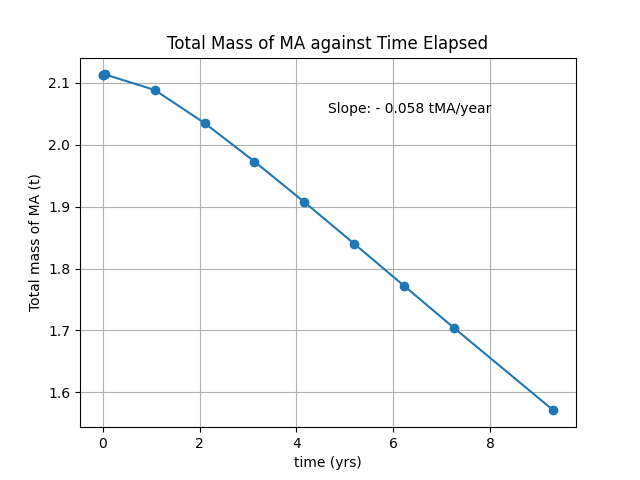
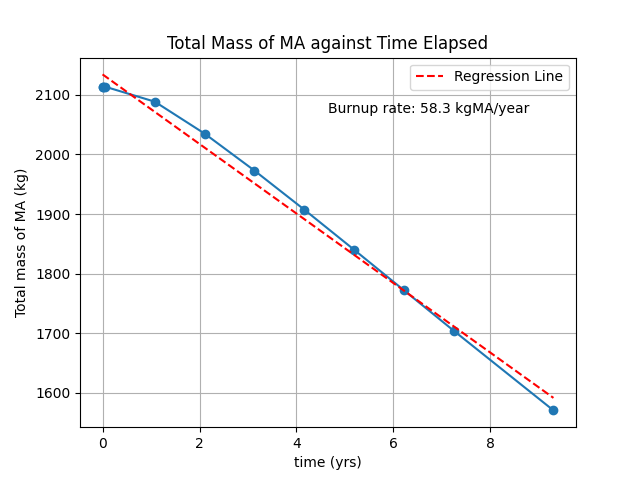
Changes to be committed: 	modified:   GenIVR/Project/Figure_4.png 	new file:   GenIVR/Project/Figure_5.png 	modified:   GenIVR/Project/test_fin/density.py

diff --git a/GenIVR/Project/test_fin/density.py b/GenIVR/Project/test_fin/density.py
@@ -191,7 +191,7 @@ Am243_mass = np.array([1.06112E+06, 1.06044E+06, 1.05776E+06, 9.90680E+05, 9.284
 Cm242_mass = np.array([0.00000E+00, 4.21497E+02, 2.60989E+03, 2.88185E+04, 3.25057E+04, 3.17517E+04, 3.02130E+04, 2.85243E+04, 2.68558E+04, 2.52890E+04, 2.23377E+04])
 Cm244_mass = np.array([0.00000E+00, 6.58694E+02, 3.32895E+03, 6.74536E+04, 1.22055E+05, 1.68083E+05, 2.06666E+05, 2.38588E+05, 2.64716E+05, 2.85794E+05, 3.15262E+05])
 
-total_mass_MA = (Am241_mass + Am242m_mass + Am243_mass + Cm242_mass + Cm244_mass) / 1e6
+total_mass_MA = (Am241_mass + Am242m_mass + Am243_mass + Cm242_mass + Cm244_mass) / 1e3
 
 #print(total_mass_MA)
 
@@ -211,7 +211,7 @@ plt.show()
 
 plt.plot(YEARS, total_mass_MA,'-o')
 plt.xlabel('time (yrs)')
-plt.ylabel('Total mass of MA (t)')
+plt.ylabel('Total mass of MA (kg)')
 plt.title('Total Mass of MA against Time Elapsed')
 plt.grid(True)
 
@@ -221,12 +221,60 @@ model.fit(YEARS.reshape(-1, 1), total_mass_MA)
 
 # Get the slope (gradient)
 slope = abs(model.coef_[0])
-slope_annotation = f"Slope: - {slope:.3f} tMA/year"
+slope_annotation = f"Burnup rate: {slope:.1f} kgMA/year"
 
 # Add the slope annotation to the graph
 plt.annotate(slope_annotation, xy=(0.5, 0.85), xycoords='axes fraction', fontsize=10)
 
+# Generate predictions using the fitted model
+predictions = model.predict(YEARS.reshape(-1, 1))
+
+# Plot the regression line
+plt.plot(YEARS, predictions, 'r--', label='Regression Line')
+
+# Add a legend to the plot
+plt.legend()
 plt.show()
+
+
+
+
+
+
+
+burnup_TWh = burnup * (1e-3 * 24)
+
+plt.plot(burnup_TWh, total_mass_MA, '-o')
+plt.xlabel('Burnup (TWh)')
+plt.ylabel('Total mass of MA (kg)')
+plt.title('Total Mass of MA against Burnup')
+plt.grid(True)
+
+# Fit linear regression to the data
+models = LinearRegression()
+models.fit(burnup_TWh.reshape(-1, 1), total_mass_MA)
+
+# Get the slope (gradient)
+slopes = abs(models.coef_[0])
+slopes_annotation = f"Burnup rate: {slopes:.1f} kgMA/TWh"
+
+# Add the slope annotation to the graph
+plt.annotate(slopes_annotation, xy=(0.5, 0.85), xycoords='axes fraction', fontsize=10)
+
+# Generate predictions using the fitted model
+predictionss = models.predict(burnup_TWh.reshape(-1, 1))
+
+# Plot the regression line
+plt.plot(burnup_TWh, predictionss, 'r--', label='Regression Line')
+
+# Add a legend to the plot
+plt.legend()
+plt.show()
+
+
+
+
+
 
 sigma_c_U238 = 2.62644E-01
 con_U238 = 0.807500
